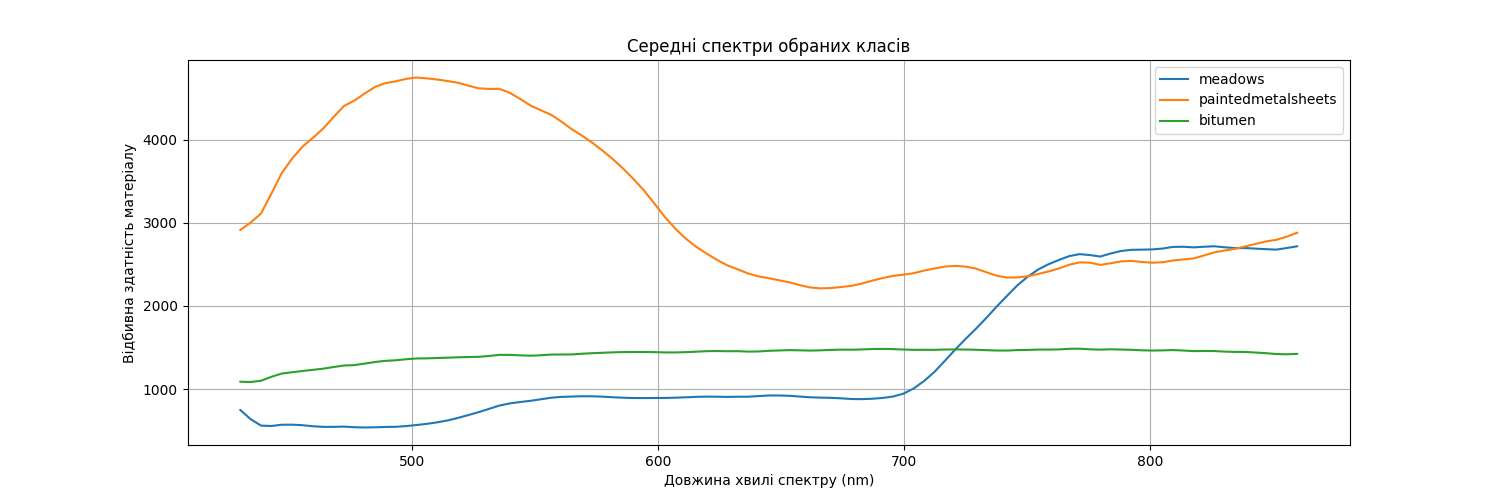
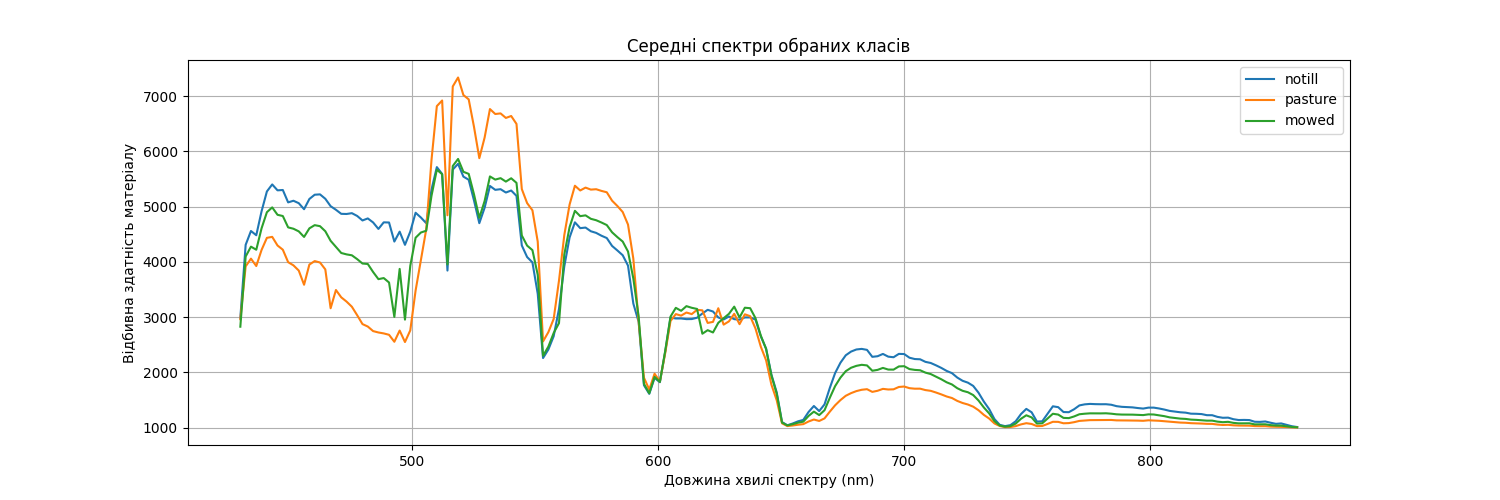
Add XGBoost prediction

diff --git a/website/templates/class_prediction_plot.html b/website/templates/class_prediction_plot.html
@@ -1,0 +1,11 @@
+{% extends "base.html" %} {% block title %}Project{% endblock %} {% block content %}
+    <form method="POST">
+        <h1>Classes Prediction</h1>
+        <img src="{{ image_path }}" style="max-width: 90%; height: auto; margin: 20px auto; display: block;"
+             alt="Classes Prediction">
+        <br>
+        <a class="btn btn-light" href="{{ url_for('views.project_details', project_id=project.id) }}">
+            Back
+        </a>
+    </form>
+{% endblock %}

diff --git a/website/templates/project_workspace.html b/website/templates/project_workspace.html
@@ -24,8 +24,10 @@
             </button>
         </form>
         <br>
-        <button class="btn btn-outline-dark" type="button">
-            Generate prediction
-        </button>
+        <form action="{{ url_for("views.create_classes_prediction_plot") }}" method="POST">
+            <button type="submit" class="btn btn-outline-dark">
+                Generate prediction
+            </button>
+        </form>
     </ul>
 {% endblock %}

diff --git a/website/ml_model/classes_prediction.py b/website/ml_model/classes_prediction.py
@@ -1,3 +1,5 @@
+import os
+
 import numpy as np
 import time
 
@@ -5,22 +7,34 @@ from sklearn.metrics import confusion_matrix, classification_report, ConfusionMa
 import matplotlib
 import matplotlib.pyplot as plt
 import numpy as np
-import scipy.io as sio
 from matplotlib.colors import ListedColormap
 from sklearn.decomposition import PCA
 from sklearn.metrics import accuracy_score
 from xgboost import XGBClassifier
+import seaborn as sns
+
+
+from Ground_Detection_App.website.ml_model.load_data import LoadDataset
 
 matplotlib.use('TkAgg')
 
 
 class GeneratePrediction:
 
-    def __init__(self, data, method):
-        self.data = data
-        self.method = method
+    def __init__(self, class_names):
+        self.data = None
+        self.method = None
+        self.wavelength = None
+        self.labels = None
+        self.class_names = class_names
+        self.class_colors = sns.color_palette(None, len(class_names))
 
-    def train_test_split(self, X, y, data_parts, n_iterations, i):
+    def load_data(self, path):
+        ld = LoadDataset(self.class_names)
+        self.wavelength, self.labels, self.data = ld.load_data(path)
+
+    @staticmethod
+    def train_test_split(X, y, data_parts, n_iterations, i):
         train_indices = np.concatenate([data_parts[j] for j in range(n_iterations) if j != i])
         test_indices = data_parts[i]
 
@@ -29,14 +43,16 @@ class GeneratePrediction:
 
         return train_indices, test_indices, X_train, X_test, y_train, y_test
 
-    def preprocess_data_for_image(self, X_train, X_test, n_components=100):
+    @staticmethod
+    def preprocess_data_for_image(X_train, X_test, n_components=100):
         pca = PCA(n_components=n_components)
         pca.fit(X_train)
         pcX_train = pca.transform(X_train)
         pcX_test = pca.transform(X_test)
         return pcX_train, pcX_test, pca
 
-    def train_xgboost(self, X_train, y_train, max_depth=5, n_estimators=100):
+    @staticmethod
+    def train_xgboost(X_train, y_train, max_depth=5, n_estimators=100):
         clf = XGBClassifier(n_estimators=n_estimators, max_depth=max_depth)
         clf.fit(X_train, y_train)
         return clf
@@ -49,7 +65,7 @@ class GeneratePrediction:
         plt.axis('off')
 
         patches = [plt.plot([], [], marker="o", ms=10, ls="", mec=None, color=class_colors[i],
-                            label="{:d}: {}".format(i, self.CLASS_NAMES[i]))[0] for i in range(len(self.CLASS_NAMES))]
+                            label="{:d}: {}".format(i, self.class_names[i]))[0] for i in range(len(self.class_names))]
 
         plt.legend(handles=patches, bbox_to_anchor=(1.05, 1), loc='upper left', fontsize=10)
 
@@ -67,8 +83,8 @@ class GeneratePrediction:
         y_true_filtered = y_true[mask]
         y_pred_filtered = y_pred[mask]
 
-        cm = confusion_matrix(y_true_filtered, y_pred_filtered, labels=list(self.CLASS_NAMES.keys())[1:])
-        disp = ConfusionMatrixDisplay(cm, display_labels=list(self.CLASS_NAMES.values())[1:])
+        cm = confusion_matrix(y_true_filtered, y_pred_filtered, labels=list(self.class_names.keys())[1:])
+        disp = ConfusionMatrixDisplay(cm, display_labels=list(self.class_names.values())[1:])
 
         plt.figure(figsize=(10, 8))
         disp.plot(cmap=plt.cm.Blues, xticks_rotation=45)
@@ -76,14 +92,11 @@ class GeneratePrediction:
         plt.show()
 
         print("\nClassification Report:\n",
-              classification_report(y_true_filtered, y_pred_filtered, labels=list(self.CLASS_NAMES.keys())[1:],
-                                    target_names=list(self.CLASS_NAMES.values())[1:], zero_division=0))
+              classification_report(y_true_filtered, y_pred_filtered, labels=list(self.class_names.keys())[1:],
+                                    target_names=list(self.class_names.values())[1:], zero_division=0))
 
-    def compute_classification_results(self, n_iterations=5,
-                                       class_colors=['black', 'gray', 'green', 'brown', 'darkgreen',
-                                                     'lightblue', 'tan', 'darkgray', 'red', 'purple']):
-        # Перетворюється гіперспектральне зображення у набір ознак для класифікації,
-        # де кожен піксель представлений спектральним вектором.
+    def compute_classification_results(self, n_iterations=5):
+        print('compute_classification_results is called')
 
         data = self.data.astype(np.float64) / 65535.0
 
@@ -122,8 +135,19 @@ class GeneratePrediction:
         y_pred_img = y_pred_full.reshape((rows, cols))
         y_img = y.reshape((rows, cols))
 
-        cmap = ListedColormap(class_colors)
+        cmap = ListedColormap(self.class_colors)
 
-        self.plot_predictions_truth(cmap, y_pred_img, y_img, class_colors)
+        self.plot_predictions_truth(cmap, y_pred_img, y_img, self.class_colors)
 
-        self.plot_confusion_matrix(y.ravel(), y_pred_full)
+        current_dir = os.path.dirname(os.path.abspath(__file__))
+        static_img_path = os.path.join(current_dir, '..', 'static', 'imgs')
+        os.makedirs(static_img_path, exist_ok=True)
+
+        full_img_path = os.path.join(static_img_path, 'classes_prediction.png')
+        plt.savefig(full_img_path)
+        plt.close()
+        return 'imgs/classes_prediction.png'
+
+        # self.plot_confusion_matrix(y.ravel(), y_pred_full)
+
+

diff --git a/website/views.py b/website/views.py
@@ -6,6 +6,7 @@ from flask import request, flash, session, json, jsonify
 from flask_login import login_required, current_user
 from werkzeug.utils import secure_filename
 
+from .ml_model.classes_prediction import GeneratePrediction
 from .ml_model.data_evaluation import DataEvaluation
 from .models import Project, db
 
@@ -91,15 +92,28 @@ def get_current_project_or_redirect():
     return project, None
 
 
+def generate_classes_dictionary(class_names) -> dict:
+    class_names = class_names.split()
+    class_names_dict = {}
+    num = 0
+    for i in class_names:
+        class_names_dict.update({num: i})
+        num += 1
+
+    return class_names_dict
+
+
 def render_plot_page(plot_func, template):
     project, redirect_response = get_current_project_or_redirect()
     if redirect_response:
         return redirect_response
 
-    gv = DataEvaluation(class_names=project.classification_classes)
-    gv.load_data(project.dataset)
+    class_names_dict = generate_classes_dictionary(project.classification_classes)
 
-    image_path = plot_func(gv)
+    de = DataEvaluation(class_names=class_names_dict)
+    de.load_data(project.dataset)
+
+    image_path = plot_func(de)
     return render_template(template, image_path=url_for('static', filename=image_path), user=current_user,
                            project=project)
 
@@ -194,7 +208,7 @@ def create_class_distribution_plot():
 @views.route('/class_distribution_plot', methods=['GET'])
 @login_required
 def class_distribution_plot():
-    return render_plot_page(lambda gv: gv.plot_class_distribution(), "class_distribution_plot.html")
+    return render_plot_page(lambda de: de.plot_class_distribution(), "class_distribution_plot.html")
 
 
 @views.route('/create_sample_spectra_plot', methods=['POST'])
@@ -206,7 +220,7 @@ def create_sample_spectra_plot():
 @views.route('/sample_spectra_plot', methods=['GET'])
 @login_required
 def sample_spectra_plot():
-    return render_plot_page(lambda gv: gv.plot_sample_spectra(), "sample_spectra_plot.html")
+    return render_plot_page(lambda de: de.plot_sample_spectra(), "sample_spectra_plot.html")
 
 
 @views.route('/create_comprehensive_review_plot', methods=['POST'])
@@ -218,7 +232,35 @@ def create_comprehensive_review_plot():
 @views.route('/comprehensive_review_plot', methods=['GET'])
 @login_required
 def comprehensive_review_plot():
-    return render_plot_page(lambda gv: gv.plot_comprehensive_review(), "comprehensive_review_plot.html")
+    return render_plot_page(lambda de: de.plot_comprehensive_review(), "comprehensive_review_plot.html")
+
+
+@views.route('/create_classes_prediction_plot', methods=['GET', 'POST'])
+@login_required
+def create_classes_prediction_plot():
+    print("create_classes_prediction_plot is called")
+    return redirect(url_for('views.classes_prediction_plot'))
+
+
+@views.route('/classes_prediction_plot', methods=['GET'])
+@login_required
+def classes_prediction_plot():
+    print("classes_prediction_plot is called")
+    project, redirect_response = get_current_project_or_redirect()
+    if redirect_response:
+        return redirect_response
+
+    class_names_dict = generate_classes_dictionary(project.classification_classes)
+
+    gp = GeneratePrediction(class_names=class_names_dict)
+    gp.load_data(project.dataset)
+
+    image_path = gp.compute_classification_results()
+    print("data is loading")
+
+    return render_template("class_prediction_plot.html",
+                           image_path=url_for('static', filename=image_path), user=current_user,
+                           project=project)
 
 
 @views.route('/delete-project', methods=['POST'])

diff --git a/website/ml_model/data_evaluation.py b/website/ml_model/data_evaluation.py
@@ -15,13 +15,7 @@ matplotlib.use('Agg')
 class DataEvaluation:
 
     def __init__(self, class_names):
-        class_names = class_names.split()
-        class_names_dict = {}
-        num = 0
-        for i in class_names:
-            class_names_dict.update({num: i})
-            num += 1
-        self.class_names = class_names_dict
+        self.class_names = class_names
         self.data = None  # hyperspectral image cube
         self.labels = None  # the ground truth classifications
         self.wavelength = None  # the wavelength values for each spectral band

diff --git a/website/ml_model/load_data.py b/website/ml_model/load_data.py
@@ -69,7 +69,8 @@ class LoadDataset:
         if self.data is None or self.labels is None:
             raise ValueError('No data loaded')
 
-    def unarchive_data(self, archive_format, path):
+    @staticmethod
+    def unarchive_data(archive_format, path):
         filename = os.path.join('Ground_Detection_App', 'website', 'static', 'uploads', path)
         extract_dir = os.path.join('Ground_Detection_App', 'website', 'static', 'uploads')
 
